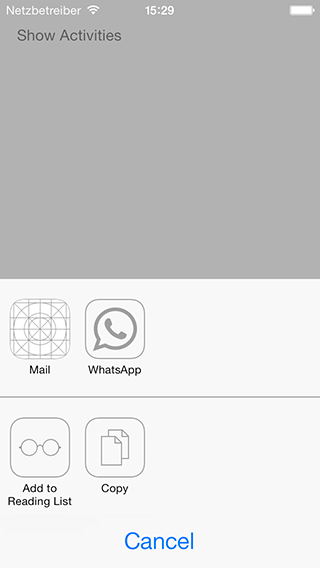
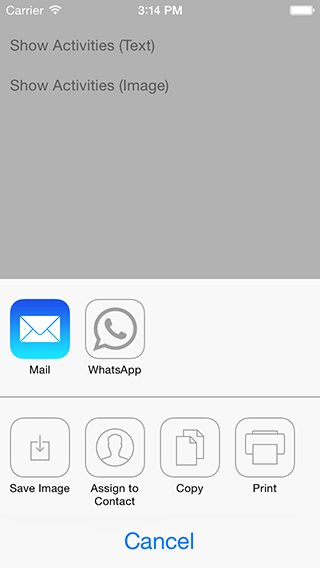
UIImage can now be shared

diff --git a/SSCWhatsAppActivity/SSCWhatsAppActivity.m b/SSCWhatsAppActivity/SSCWhatsAppActivity.m
@@ -8,21 +8,29 @@
 
 #import "SSCWhatsAppActivity.h"
 
-NSString * const SSCActivityTypePostToWhatsApp = @"net.psyonic.activity.postToWhatsApp";
+NSString * const SSCActivityTypePostToWhatsApp = @"io.evolved.activity.postToWhatsApp";
 
-@interface SSCWhatsAppActivity ()
+@interface SSCWhatsAppActivity () <UIDocumentInteractionControllerDelegate>
 
-@property (nonatomic, copy) NSString *shareString;
+@property (nonatomic, strong) UIDocumentInteractionController *documentInteractionController;
+@property (nonatomic, strong) NSMutableArray *stringsToShare;
+@property (nonatomic, strong) UIImage *imageToShare;
 
 @end
 
 @implementation SSCWhatsAppActivity
 
-static NSString *encodeByAddingPercentEscapes(NSString *input) {
-    NSString *encodedValue = (NSString *)CFBridgingRelease(CFURLCreateStringByAddingPercentEscapes(kCFAllocatorDefault, (CFStringRef)input, NULL, (CFStringRef)@"!*'();:@&=+$,/?%#[]", kCFStringEncodingUTF8));
+#pragma mark - Accessors
+
+- (NSMutableArray *)stringsToShare {
+    if (!_stringsToShare) {
+        _stringsToShare = [NSMutableArray new];
+    }
     
-    return encodedValue;
+    return _stringsToShare;
 }
+
+#pragma mark - UIActivity
 
 - (NSString *)activityType {
     return SSCActivityTypePostToWhatsApp;
@@ -46,13 +54,20 @@ static NSString *encodeByAddingPercentEscapes(NSString *input) {
 
 - (BOOL)canPerformWithActivityItems:(NSArray *)activityItems {
     // No WhatsApp for iPad
-    if (UI_USER_INTERFACE_IDIOM() == UIUserInterfaceIdiomPad) return NO;
+    if (UI_USER_INTERFACE_IDIOM() == UIUserInterfaceIdiomPad) {
+        return NO;
+    }
     
+    // Check if WhatsApp is installed
     NSURL *whatsAppURL = [NSURL URLWithString:@"whatsapp://app"];
-    if (![[UIApplication sharedApplication] canOpenURL:whatsAppURL]) return NO;
     
+    if (![[UIApplication sharedApplication] canOpenURL:whatsAppURL]) {
+        return NO;
+    }
+    
+    // Check for valid activityItems
     for (id item in activityItems) {
-        if ([item isKindOfClass:[NSString class]] || [item isKindOfClass:[NSURL class]]) {
+        if ([item isKindOfClass:[NSString class]] || [item isKindOfClass:[NSURL class]] || [item isKindOfClass:[UIImage class]]) {
             return YES;
         }
     }
@@ -63,17 +78,59 @@ static NSString *encodeByAddingPercentEscapes(NSString *input) {
 - (void)prepareWithActivityItems:(NSArray *)activityItems {
     for (id item in activityItems) {
         if ([item isKindOfClass:[NSString class]]) {
-            self.shareString = [(self.shareString ? self.shareString : @"") stringByAppendingFormat:@"%@%@", (self.shareString ? @" " : @""), item];
+            [self.stringsToShare addObject:item];
         } else if ([item isKindOfClass:[NSURL class]]) {
-            self.shareString = [(self.shareString ? self.shareString : @"") stringByAppendingFormat:@"%@%@", (self.shareString ? @" " : @""), [(NSURL *)item absoluteString]];
+            [self.stringsToShare addObject:[(NSURL *)item absoluteString]];
+        } else if ([item isKindOfClass:[UIImage class]]) {
+            self.imageToShare = item;
         }
     }
 }
 
 - (void)performActivity {
-    NSURL *whatsAppURL = [NSURL URLWithString:[NSString stringWithFormat:@"whatsapp://send?text=%@", encodeByAddingPercentEscapes(self.shareString)]];
+    if (self.imageToShare) {
+        [self sendImageToDocumentInteractionController:self.imageToShare];
+    } else {
+        [self sendStringToWhatsApp:[self.stringsToShare componentsJoinedByString:@" "]];
+    }
+}
+
+#pragma mark - Helper methods
+
+static NSString *encodeByAddingPercentEscapes(NSString *input) {
+    NSString *encodedValue = (NSString *)CFBridgingRelease(CFURLCreateStringByAddingPercentEscapes(kCFAllocatorDefault, (CFStringRef)input, NULL, (CFStringRef)@"!*'();:@&=+$,/?%#[]", kCFStringEncodingUTF8));
+    
+    return encodedValue;
+}
+
+- (void)sendStringToWhatsApp:(NSString *)stringToShare {
+    NSURL *whatsAppURL = [NSURL URLWithString:[NSString stringWithFormat:@"whatsapp://send?text=%@", encodeByAddingPercentEscapes(stringToShare)]];
     BOOL success = [[UIApplication sharedApplication] openURL:whatsAppURL];
     [self activityDidFinish:success];
+}
+
+- (void)sendImageToDocumentInteractionController:(UIImage *)image {
+    // Save with .wai extension so that it is only recognized by WhatsApp (see https://www.whatsapp.com/faq/en/iphone/23559013)
+    NSURL *fileURL = [[NSURL fileURLWithPath:NSTemporaryDirectory() isDirectory:YES] URLByAppendingPathComponent:@"image.wai"];
+    BOOL success = [UIImageJPEGRepresentation(image, 1.0) writeToURL:fileURL atomically:YES];
+    
+    if (success) {
+        self.documentInteractionController = [UIDocumentInteractionController interactionControllerWithURL:fileURL];
+        self.documentInteractionController.delegate = self;
+        self.documentInteractionController.UTI = @"net.whatsapp.image";
+        
+        // Present UIDocumentInteractionController in topmost view
+        UIView *view = [[UIApplication sharedApplication].keyWindow.subviews lastObject];
+        [self.documentInteractionController presentOpenInMenuFromRect:view.bounds inView:view animated:YES];
+    } else {
+        [self activityDidFinish:NO];
+    }
+}
+
+#pragma mark - UIDocumentInteractionControllerDelegate
+
+- (void)documentInteractionController:(UIDocumentInteractionController *)controller willBeginSendingToApplication:(NSString *)application {
+    [self activityDidFinish:YES];
 }
 
 @end

diff --git a/WhatsAppActivityDemo/SSCRootViewController.m b/WhatsAppActivityDemo/SSCRootViewController.m
@@ -18,20 +18,38 @@
 - (void)viewDidLoad {
     [super viewDidLoad];
 	
-	UIButton *showActivitiesButton = [UIButton buttonWithType:UIButtonTypeRoundedRect];
-	[showActivitiesButton setTitle:@"Show Activities" forState:UIControlStateNormal];
-	[showActivitiesButton addTarget:self action:@selector(showActivities:) forControlEvents:UIControlEventTouchUpInside];
-	[self.view addSubview:showActivitiesButton];
-	[showActivitiesButton setFrame:CGRectMake(10, 10, 120, 50)];
+	UIButton *showActivitiesTextButton = [UIButton buttonWithType:UIButtonTypeRoundedRect];
+	[showActivitiesTextButton setTitle:@"Show Activities (Text)" forState:UIControlStateNormal];
+	[showActivitiesTextButton addTarget:self action:@selector(showActivitiesWithText:) forControlEvents:UIControlEventTouchUpInside];
+	[self.view addSubview:showActivitiesTextButton];
+    [showActivitiesTextButton sizeToFit];
+	[showActivitiesTextButton setFrame:CGRectMake(10, 20, CGRectGetWidth(showActivitiesTextButton.bounds), 50)];
+    
+    UIButton *showActivitiesImageButton = [UIButton buttonWithType:UIButtonTypeRoundedRect];
+	[showActivitiesImageButton setTitle:@"Show Activities (Image)" forState:UIControlStateNormal];
+	[showActivitiesImageButton addTarget:self action:@selector(showActivitiesWithImage:) forControlEvents:UIControlEventTouchUpInside];
+	[self.view addSubview:showActivitiesImageButton];
+    [showActivitiesImageButton sizeToFit];
+	[showActivitiesImageButton setFrame:CGRectMake(10, 60, CGRectGetWidth(showActivitiesImageButton.bounds), 50)];
 }
 
-- (void)showActivities:(id)sender {
+- (void)showActivitiesWithText:(id)sender {
     NSString *stringToShare = @"This is a message I'd like to share via WhatsApp";
 	NSURL *urlToShare = [NSURL URLWithString:@"https://github.com/sascha/SSCWhatsAppActivity"];
-    	
+    
 	SSCWhatsAppActivity *whatsAppActivity = [[SSCWhatsAppActivity alloc] init];
     
 	UIActivityViewController *activityViewController = [[UIActivityViewController alloc] initWithActivityItems:@[stringToShare, urlToShare] applicationActivities:@[whatsAppActivity]];
+	
+	[self presentViewController:activityViewController animated:YES completion:nil];
+}
+
+- (void)showActivitiesWithImage:(id)sender {
+    UIImage *imageToShare = [UIImage imageNamed:@"shareImage.jpg"];
+    
+	SSCWhatsAppActivity *whatsAppActivity = [[SSCWhatsAppActivity alloc] init];
+    
+	UIActivityViewController *activityViewController = [[UIActivityViewController alloc] initWithActivityItems:@[imageToShare] applicationActivities:@[whatsAppActivity]];
 	
 	[self presentViewController:activityViewController animated:YES completion:nil];
 }

diff --git a/README.md b/README.md
@@ -27,13 +27,13 @@ Typical usage will look something like this:
 	
 	[self presentViewController:activityViewController animated:YES completion:nil];
 	
-Have a look at the demo app to see it in context.
+Please note that you can only share instances of `NSString`, `NSURL` or `UIImage`. WhatsApp does not support sharing text and images at the same time, so as soon as you provide an `UIImage` all `NSString` and `NSURL` instances will be ignored. In addition you can only share **one** `UIImage`. Have a look at the demo app to see it in context.
 
 ![Demo screenshot](https://raw.github.com/sascha/SSCWhatsAppActivity/master/screenshot.png)
 
 ## Author
 
-Sascha Schwabbauer, sascha.schwabbauer@me.com
+Sascha Schwabbauer, sascha@evolved.io
 
 ## License
 
